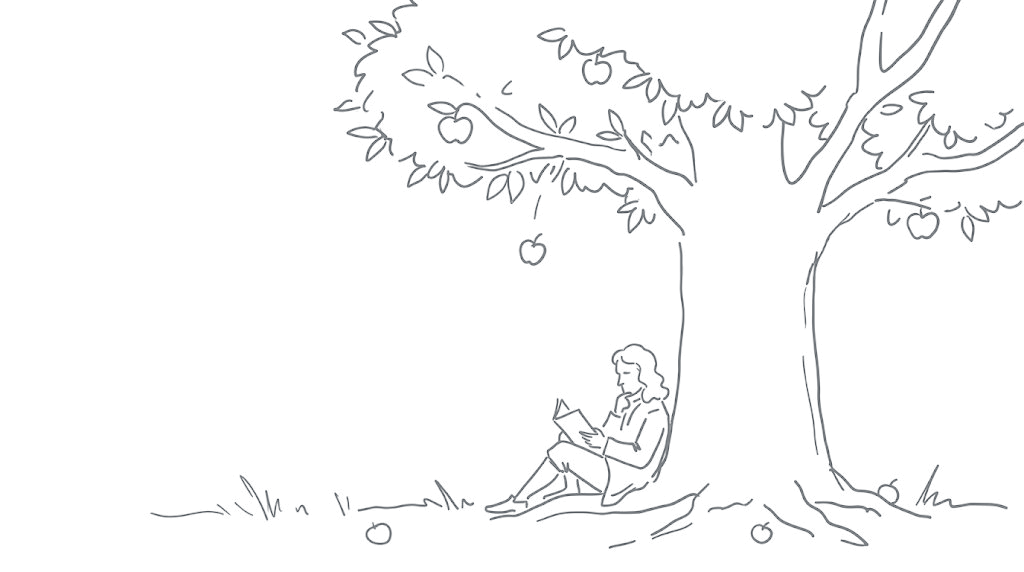
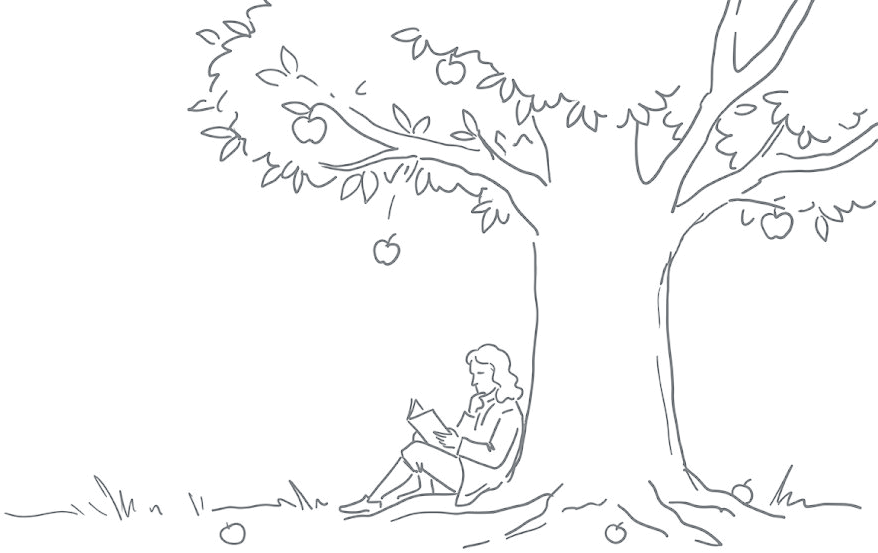
Position Newton illustration inside content area matching layout mockup

diff --git a/index.html b/index.html
@@ -61,14 +61,13 @@
   }
 
   .newton-corner {
-    position: fixed;
-    bottom: 0;
-    right: 28px;
-    width: 250px;
-    max-width: 26vw;
+    position: absolute;
+    right: 0;
+    bottom: 68px;
+    width: clamp(280px, 34vw, 360px);
     pointer-events: none;
     z-index: 0;
-    opacity: 0.45;
+    opacity: 0.55;
     user-select: none;
   }
   .newton-corner img {
@@ -162,7 +161,10 @@
   nav a:hover { border-bottom: 1px solid var(--underline); }
 
   /* ---------- main ---------- */
-  main { padding: 120px 0 80px; }
+  main {
+    position: relative;
+    padding: 120px 0 80px;
+  }
 
   main p {
     max-width: 620px;
@@ -303,6 +305,17 @@
   .video-close:hover { opacity: 1; }
 
   /* ---------- responsive ---------- */
+  @media (max-width: 860px) {
+    .newton-corner {
+      position: static;
+      width: 240px;
+      max-width: 75%;
+      margin: 52px auto 16px;
+      opacity: 0.5;
+      display: block;
+    }
+  }
+
   @media (max-width: 600px) {
     body { font-size: 16px; }
     header {
